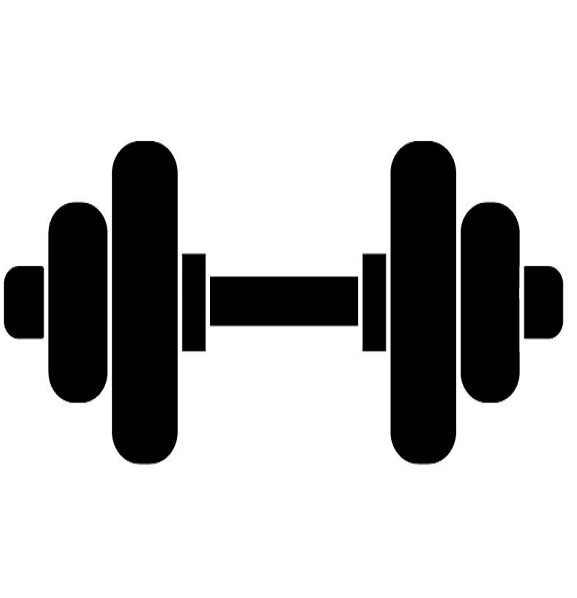
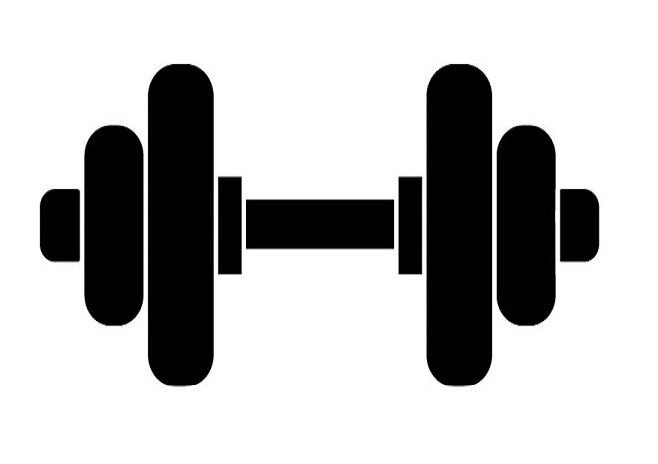
project info

Changed region(s): [[0.0, 0.1207, 0.9983, 0.8448]]

diff --git a/04-elements/css/styles.css b/04-elements/css/styles.css
@@ -33,12 +33,14 @@
 1. PRIMARY STYLES
 --------------------------------- */
 
-html{ font-size: 100%; height: 100%; overflow-x: hidden; margin: 0px;  padding: 0px; touch-action: manipulation; }
+html{ font-size: 100%;  min-height: 100%;overflow-x: hidden; margin: 0px;  padding: 0px; touch-action: manipulation; }
 
 
-body{ font-size: 16px; font-family: 'Poppins', serif; width: 100%; height: 100%; margin: 0; font-weight: 400;
+body{ font-size: 16px; font-family: 'Poppins', serif;  height: 100%; margin: 0; margin: 0;
+	background-repeat: no-repeat!important;
+    background-attachment: fixed!important;
 	-webkit-font-smoothing: antialiased; -moz-osx-font-smoothing: grayscale; word-wrap: break-word; 
-	color: rgb(122, 0, 0); }
+	background: linear-gradient(-90deg, pink 35%, #590061)!important; }
 
 h1, h2, h3, h4, h5, h6, p, a, ul, span, li, img, input, button{ margin: 0; padding: 0; }
 
@@ -46,13 +48,13 @@ h1,h2,h3,h4,h5,h6{ line-height: 1.5; font-weight: inherit; }
 
 h1,h2,h3{ font-family: 'Poppins', cursive; }
 
-p{ line-height: 1.6; font-size: 1.05em; font-weight: 400; color: #777; }
+p{ line-height: 1.6; font-size: 1.05em; font-weight: 400; color: rgb(0, 0, 0); text-align: center;}
 
 h1{ font-size: 4em; line-height: 1; }
-h2{ font-size: 3em; line-height: 1.1; color: white}
+h2{ font-size: 3em; line-height: 1.1; color: rgb(0, 0, 0)}
 h3{ font-size: 1.8em; color: white}
 h4{ font-size: 1.3em; color: rgb(255, 255, 255)}
-h5{ font-size: 1em; color:rgb(255, 255, 255)}
+h5{ font-size: 1em; color:rgb(41, 26, 26); font-weight: 600;}
 h6{ font-size: .9em; letter-spacing: 1px; }
 
 a, button{ display: inline-block; text-decoration: none; color: inherit; line-height: 1; 
@@ -60,9 +62,11 @@ a, button{ display: inline-block; text-decoration: none; color: inherit; line-he
 
 a:focus, a:active, a:hover,
 button:focus, button:active, button:hover,
-a b.light-color:hover{ text-decoration: none; color: #FFA804; }
+a b.light-color:hover{ text-decoration: none; color: rgb(151, 0, 93); }
 
 b{ font-weight: 600; }
+
+
 
 img{ width: 100%; }
 
@@ -78,18 +82,20 @@ button{ outline: 0; border: 0; background: none; cursor: pointer; }
 
 b.max-bold{ font-weight: 700; }
 
-
+.container{
+	background: transparent;
+}
 
 /* ---------------------------------
 2. COMMONS FOR PAGE DESIGN
 --------------------------------- */
 
-.section{ padding: 20px 0 70px; }
+.section{ padding: 20px 0 10px; }
 
-.section .heading{ margin-bottom: 60px; }
+.section .heading{ margin-bottom: 30px; }
 
 .section .heading:before{ content:''; height: 10px; width: 50px; border-radius: 5px;
-	margin-bottom: 20px; display: block; background: #952894; }
+	margin-bottom: 10px; display: block; background: #ffffff; }
 	
 .margin-t-10{ margin-top: 5px; }
 
@@ -101,12 +107,15 @@ b.max-bold{ font-weight: 700; }
 .margin-tb-30{ margin-top: 30px; margin-bottom: 30px; }
 .margin-tb-10{ margin-top: 5px; margin-bottom: 30px; }
 
-.font-yellow{ color: #311436; font-weight: 20;}
+.font-yellow{ color: #3a3838; font-weight: 20;}
 
 .font-semi-white{ color: #ddd; }
 
 .font-lite-black{ color: #999; }
 
+/* .roles:hover{
+	color: pink;
+} */
 
 /* ---------------------------------
 3. HEADER
@@ -147,24 +156,28 @@ header .downlad-btn:hover{ -webkit-transform: translateY(-4px); transform: trans
 	}
 }
 
-.intro-section{ z-index: 4; background-color:repeating-linear-gradient(-45deg,#FFCCCC,#5e0d6e); animation: purples 15s ease infinite;}
+.intro-section{ z-index: 4; background-color:transparent; animation: purples 15s ease infinite;}
 
 .intro-section:before{ content:''; z-index: -1; position: absolute; top: 0; bottom: 0; left: 0; right: 0; background-size: 400% 400%;
-	background:repeating-linear-gradient(-45deg,#FFCCCC,#5e0d6e); animation: purples 15s ease infinite;}
+	background:transparent; animation: purples 15s ease infinite;}
 
+
+center{
+	background: transparent;
+}
 
 .intro{ margin-top: 10px; text-align: center; }
 
-.intro .profile-img{ height: 300px; width: 300px; border-radius: 100px; margin: 0 auto; 
+.intro .profile-img{ height: 200px; width: 200px; border-radius: 100px; margin: 0 auto; 
 	overflow: hidden; position: relative; top: -160px; margin-bottom: -125px;  }
 
-.intro .information > li{ display: block; background:repeating-linear-gradient(-45deg,#FFCCCC,#5e0d6e)}
+.intro .information > li{ display: block; background:transparent}
 
 .intro .social-icons > li > a{ height: 60px; line-height: 20px; width: 60px; border-radius: 10px; font-size: 60px;
 	overflow: hidden; z-index: 1; position: relative; margin: 0px 20px 5px; background: #887392; color: #fff; }
 
 .intro .social-icons > li > a:after{ content: ''; position: absolute; bottom: 0; left: 0; right: 0;
-	top: 0; z-index: -1; border-radius: 10px; background: repeating-linear-gradient(-45deg,#FFCCCC,#5e0d6e); 
+	top: 0; z-index: -1; border-radius: 10px; background: repeating-linear-gradient(-45deg,#FFCCCC,#33003d); 
 	-webkit-transition: all .2s ease; transition: all .2s ease;
 	-webkit-transform: scale(0); transform: scale(0); }
 
@@ -186,7 +199,7 @@ header .downlad-btn:hover{ -webkit-transform: translateY(-4px); transform: trans
     font-family: "the name of the font icon you are using";
 }
 
-.btn-section{ padding-top: 20px; }
+.btn-section{ padding-top: 5px; background-color: transparent;}
 
 .btn{ margin: 0 10px 10px; padding: 12px 30px; border-radius: 5px; }
 
@@ -281,8 +294,7 @@ header .downlad-btn:hover{ -webkit-transform: translateY(-4px); transform: trans
 --------------------------------- */
 
 
-.line-icon{ display: block; height: 200px; width: 200px; background-size: cover; }
-
+.line-icon{margin: auto; display: block; height: 230px; width: 320px; background-size: cover; }
 .icon-rocket{ background-image: url(../../images/logos.png); background-position: 0px 0; }
 .icon-rocket:hover{ filter: brightness(70%); }
 .icon-cut{ background-image: url(../../images/elearning.png); background-position: 0px 0; }

diff --git a/index.html b/index.html
@@ -42,9 +42,9 @@
 					
 					<div class="col-sm-6 col-md-6 col-lg-4">
 						<div class="info">
-							<i class="icon ion-ios-telephone-outline" style = "position: relative; left: 70px;"></i>
+							<i class="icon ion-ios-telephone-outline" style = "position: relative; left: 50px;"></i>
 							<div class="right-area">
-								<h5 style = "padding-top: 10px; padding-left: 10px">+1(608)217-6135</h5>	
+								<h5 style = "padding-top: 10px;">+1(608)217-6135</h5>	
 							</div><!-- right-area -->
 						</div><!-- info -->
 					</div><!-- col-sm-4 -->
@@ -71,8 +71,10 @@
 					<div class="intro">
 						<div class="profile-img"><img src="images/profile-1-250x250.jpg" alt=""></div>
 						<h2><b>Vaishnavi Deshpande</b></h2>
-						<h4 class="font-yellow">Comp Sci Sophomore at UW-Madison</h4>
-						<br>
+						<h4 class="font-yellow"><b class='roles'><a target="_blank" href="https://github.com/vaishdesh2001/">Comp Sci</b></a> Major, UW-Madison '23</h4>
+						<h4 class="font-yellow">Undergraduate <b class='roles'><a target="_blank" href="https://www.linkedin.com/in/vaishnavi-v-deshpande/">Teaching Assistant</a></b></h4>
+						<h4 class="font-yellow">Owner of <b class='roles'><a target="_blank" href="https://www.instagram.com/madisonpurples/">Madison Purples</b></a></h4>
+						<h4 class="font-yellow"><b class='roles'><a target="_blank" href="https://www.instagram.com/isa_uwmadison/">Executive Board Member</a></b> of the India Students' Association, UW</h4>
 						<br>
 						<ul class="social-icons">
 							<li><a href="https://www.linkedin.com/in/vaishnavi-v-deshpande/"><i class="ion-social-linkedin"></i></a></li>
@@ -88,7 +90,6 @@
 	<section class="btn-section section">
 		<div class="container">
 		<center>
-		<br>
 			<a class="btn btn-bg-purple" href="#projects">Projects</a>
 			<a class="btn btn-bg-purple" href="#experience">Experience</a>
 			<a class="btn btn-bg-purple" href="#skills">Skills</a>
@@ -111,7 +112,7 @@
 					<div class="iconbox margin-b-30">
 						<a href = "https://climate-plotter.herokuapp.com/"><i class="line-icon icon-rocket"></i></a>
 						<h5 class="margin-tb-20"><b><a href = "https://climate-plotter.herokuapp.com/">CLIMATE PLOTTER</a></b></h5>
-						<p>Climate Plotter is a unique python-driven search engine solely focused on pulling and plotting climate data. https://climate-plotter.herokuapp.com/</p>
+						<p style="text-align: left;">Climate Plotter is a unique python-driven search engine solely focused on pulling and plotting climate data. https://climate-plotter.herokuapp.com/</p>
 					</div><!-- counter -->
 				</div><!-- col-md-4 -->
 				
@@ -119,7 +120,7 @@
 					<div class="iconbox margin-b-30">
 						<a href = "https://vdflask.herokuapp.com/"><i class="line-icon icon-cut"></i></a>
 						<h5 class="margin-tb-20"><b><a href = "https://vdflask.herokuapp.com/">UW COURSE CAREER MAPPER</a></b></h5>
-						<p>Maps relevant courses in UW-Madison to specific skills required for a given career. https://vdflask.herokuapp.com/</p>
+						<p style="text-align: left;">Maps relevant courses in UW-Madison to specific skills required for a given career. https://vdflask.herokuapp.com/</p>
 					</div><!-- counter -->
 				</div><!-- col-md-4 -->
 				
@@ -127,7 +128,7 @@
 					<div class="iconbox margin-b-30">
 						<a href = "https://github.com/vaishdesh2001/Health-Cruncher"><i class="line-icon icon-star"></i></a>
 						<h5 class="margin-tb-20"><b><a href = "https://github.com/vaishdesh2001/Health-Cruncher">HEALTH CRUNCHER</a></b></h5>
-						<p>This app is designed to offer users with optimal health guidance. It recommends dietary and fitness plans according to the user's requirements. Also, it generates a questionnaire which gathers information about nutritional habits and generates a health score.</p>
+						<p style="text-align: left;"> This app is designed to offer users with optimal health guidance. It recommends dietary and fitness plans according to the user's requirements. Also, it generates a questionnaire which gathers information about nutritional habits and generates a health score.</p>
 					</div><!-- counter -->
 				</div><!-- col-md-4 -->
 				
@@ -138,7 +139,7 @@
 	
 	<a id = "skills"></a>
 	<section class="accordian-section section">
-		<center><div class="container">
+		<div class="container">
 			<div class="row">
 				<div class="col-sm-12">
 					<div class="heading">
@@ -147,7 +148,7 @@
 				</div><!-- col-sm-12 -->
 				
 				
-				<div class = "col-hello"><center>
+				<div class = "col-hello">
 					<div class="panel margin-b-30">
 						<div class="panel-area margin-b-30">
 							<h5 class="panel-title"><b>PYTHON</b>
@@ -179,10 +180,10 @@
 							<p class="panel-desc">Android Studio, MIT App Inventor</p>
 						</div><!-- panel-area -->
 					</div><!-- panel -->
-				</center></div><!-- col-sm-6-->
+				</div><!-- col-sm-6-->
 				
 			</div><!-- row -->
-		</div><!-- container --></center>
+		</div><!-- container -->
 	</section><!-- accordian-section -->
 
 	<a id = "experience"></a>
@@ -227,12 +228,8 @@
 	
 	
 	
-	<footer style = "font-size: 6px">
-		<p class="copyright">
-			<!-- Link back to Colorlib can't be removed. Template is licensed under CC BY 3.0. -->
-Copyright &copy;<script>document.write(new Date().getFullYear());</script> All rights reserved | This template is made with <i class="ion-heart" aria-hidden="true"></i> by <a href="https://colorlib.com" target="_blank">Colorlib</a>
-<!-- Link back to Colorlib can't be removed. Template is licensed under CC BY 3.0. -->
-		</p>
+	<footer style = "font-size: 0px">
+		
 	</footer>
 	
 	
